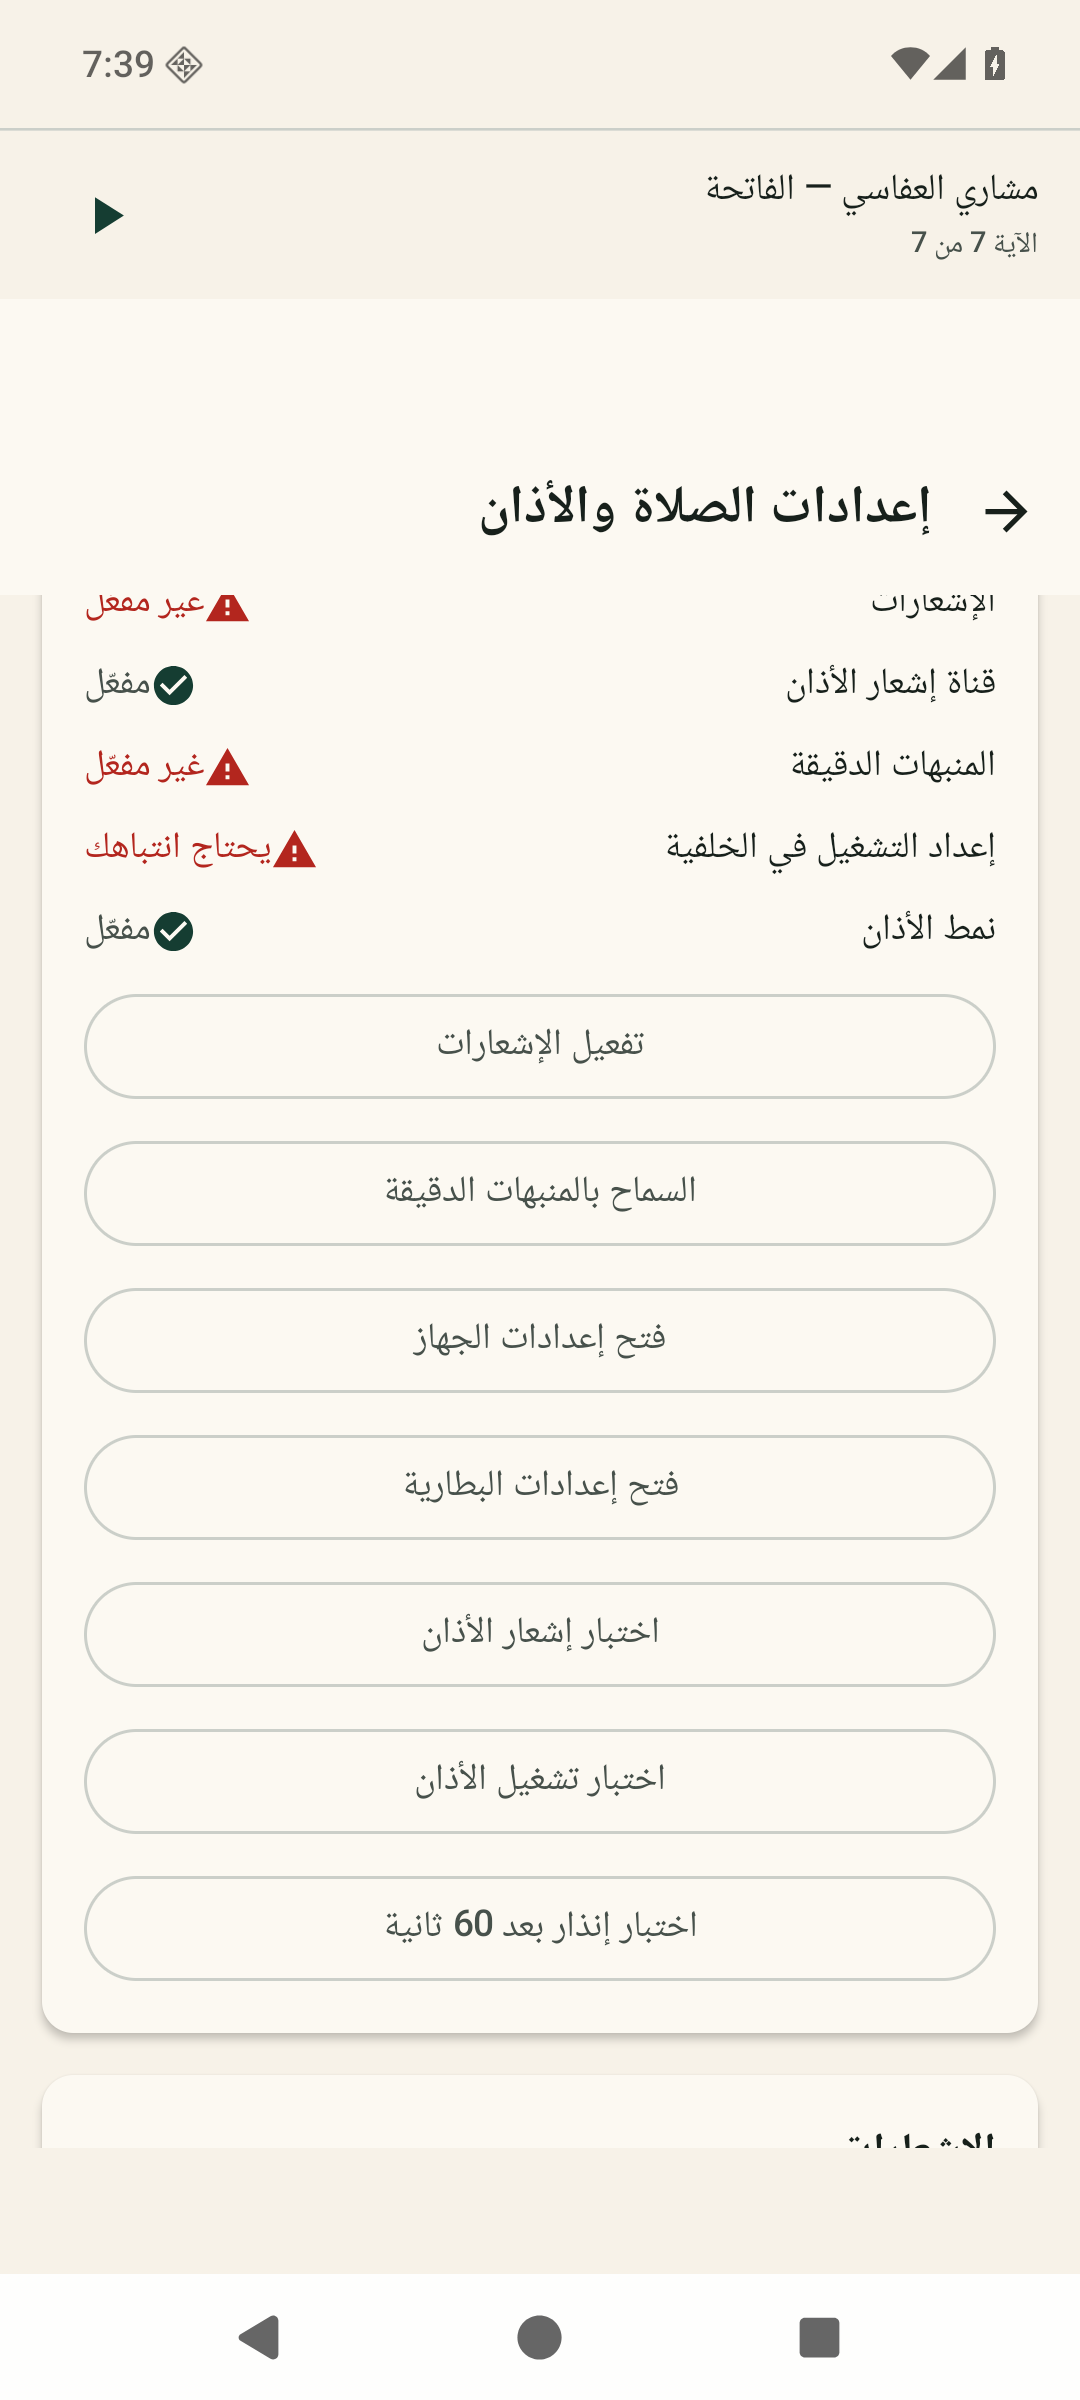
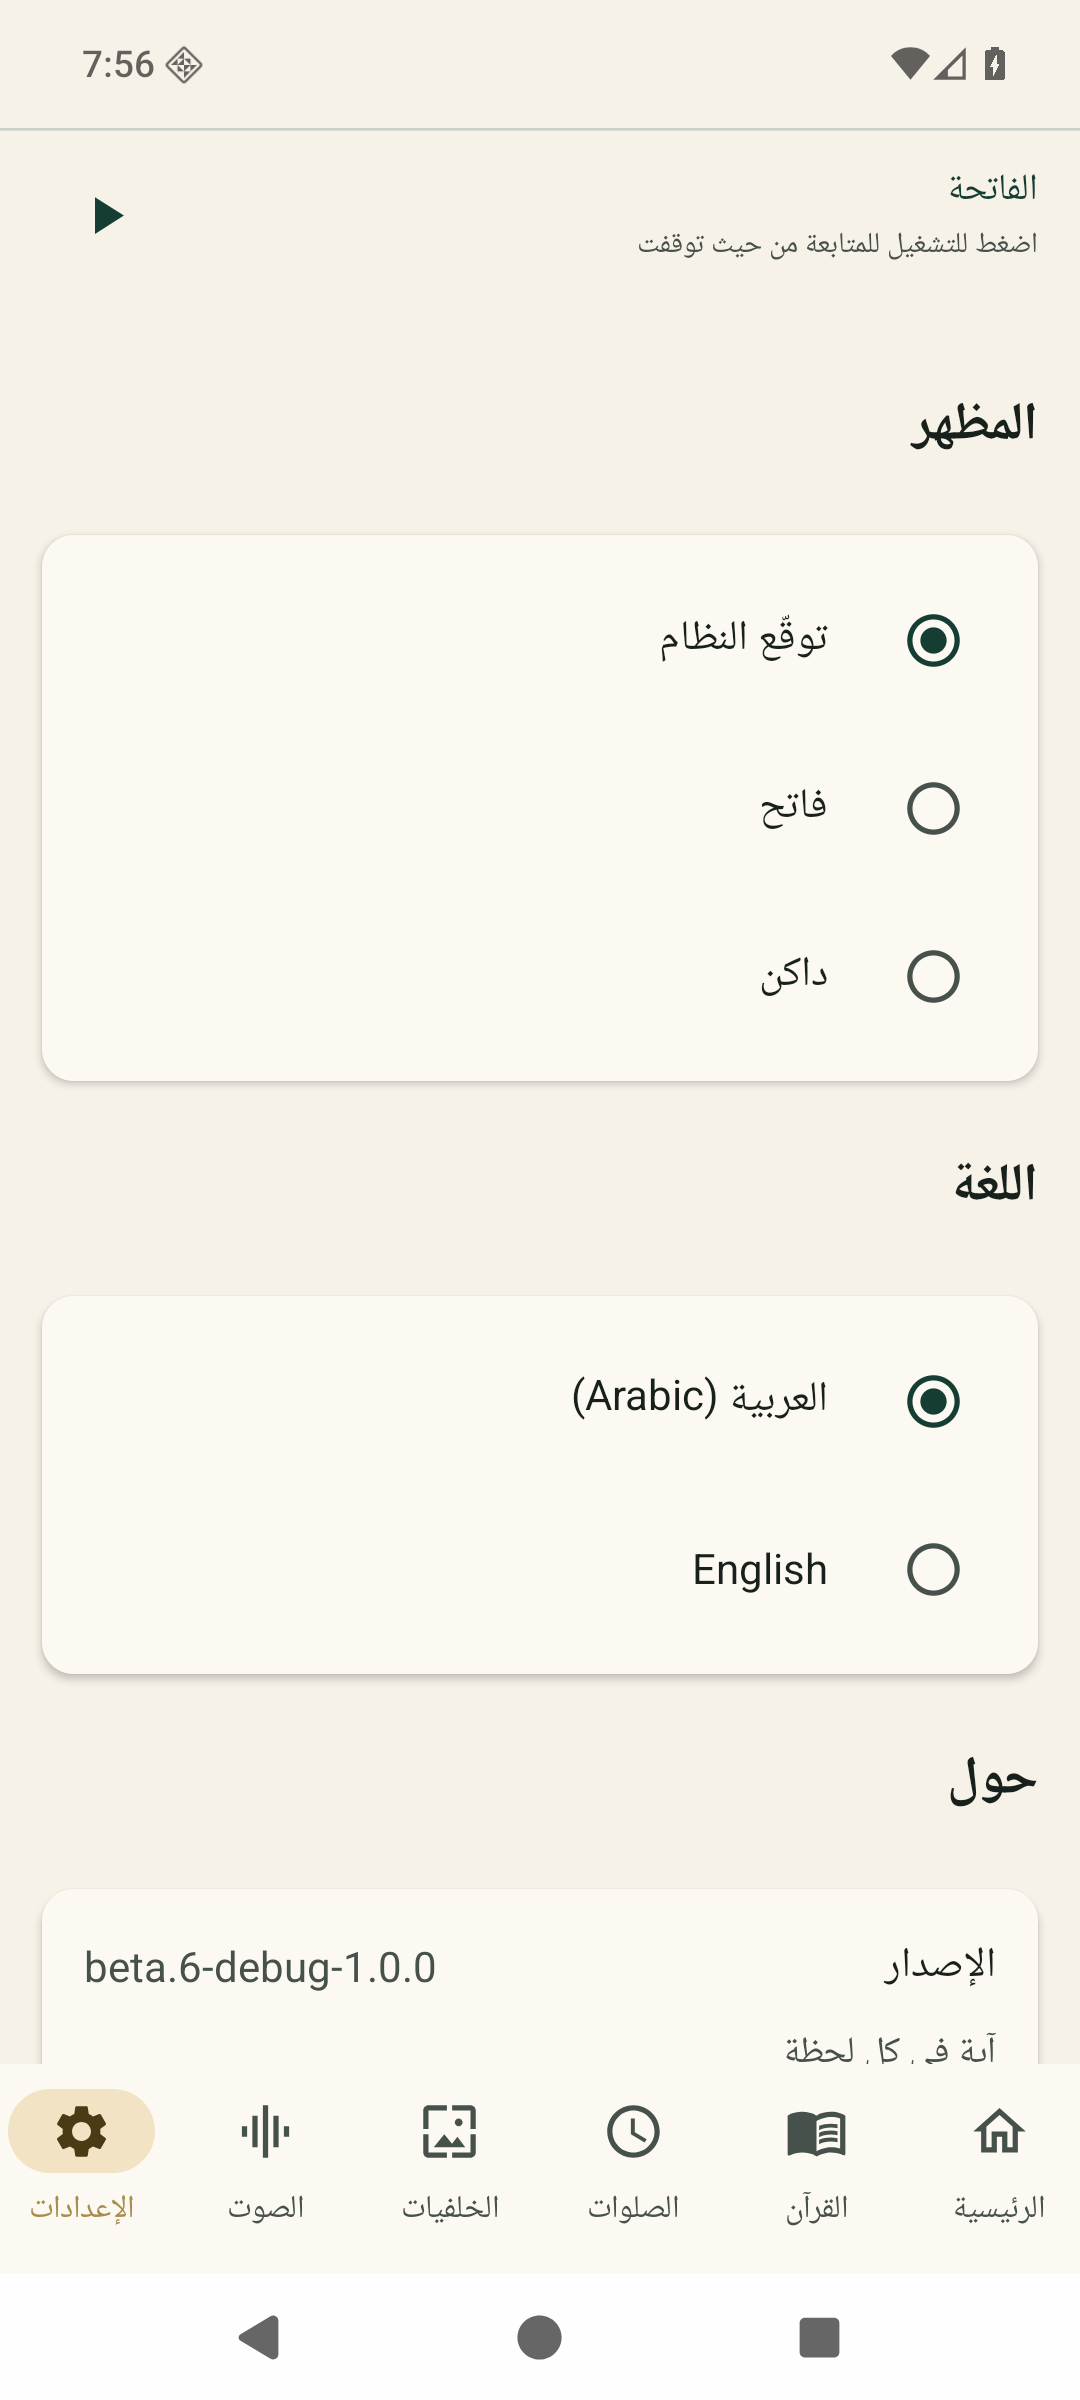
docs: handover cleanup — fix tab count, replace zero-byte screenshot, validate package
- NEXT-AGENT-START-HERE: 'Five bottom tabs' → 'Six bottom tabs' (verified
  against TopLevelDestination enum: HOME/QURAN/PRAYER/WALLPAPERS/AUDIO/SETTINGS)
- audio/08_audio_nowplaying_bar.png was 0 bytes → re-captured fresh on the
  Audio tab during live Al-Fatihah recitation (145,522 bytes, valid PNG,
  now-playing bar + repeat-ayah chip visible); index entry updated
- wallpapers/12 and settings/13 were byte-identical duplicates → both
  re-captured from their actual tabs (distinct MD5s verified)
- Full validation: 18/18 markdown docs non-empty, 22/22 screenshots valid
  PNGs and index-matched, 6 destinations match the enum

diff --git a/docs/UI-UX-HANDOVER/SCREENSHOT-INDEX.md b/docs/UI-UX-HANDOVER/SCREENSHOT-INDEX.md
@@ -18,7 +18,7 @@ same builds — equally authentic, unmodified).
 | `audio/05_mini_player_home.png` | Mini player | play from Audio tab → Home | playing Al-Fatihah, ayah counter |
 | `audio/06_now_playing.png` | Now Playing screen | mini player tap | full controls visible |
 | `audio/07_mini_player_restore.png` **[session reuse]** | Mini player restore hint | after process kill + relaunch | "اضغط للتشغيل للمتابعة" |
-| `audio/08_audio_nowplaying_bar.png` **[session reuse]** | Audio tab now-playing bar | during Malik recitation | repeat-ayah chip visible |
+| `audio/08_audio_nowplaying_bar.png` | Audio tab now-playing bar | play from Audio tab (Al-Fatihah) | recited-ayah bar + repeat-ayah chip; re-captured fresh during cleanup (replaced a zero-byte file) |
 | `prayer/07_prayer_times.png` | Prayer times tab | tab الصلوات | location setup + times |
 | `prayer/08_prayer_settings_top.png` | Prayer settings (top) | gear icon | location/method sections |
 | `prayer/09_prayer_settings_adhan.png` | Prayer settings (adhan/diagnostics) | scroll | custom file + test buttons |

diff --git a/docs/UI-UX-HANDOVER/NEXT-AGENT-START-HERE.md b/docs/UI-UX-HANDOVER/NEXT-AGENT-START-HERE.md
@@ -9,7 +9,7 @@ redesign **while preserving every behavior**.
 
 - Arabic-first Quran app (Arabic is the DEFAULT locale; English switchable
   in-app — the activity recreates on switch).
-- Five bottom tabs (RTL order right→left): الرئيسية (Home) · القرآن (Quran)
+- Six bottom tabs (RTL order right→left): الرئيسية (Home) · القرآن (Quran)
   · الصلوات (Prayers) · الخلفيات (Wallpapers) · الصوت (Audio) · الإعدادات
   (Settings).
 - Working features you MUST keep working: mushaf page reader (authentic
